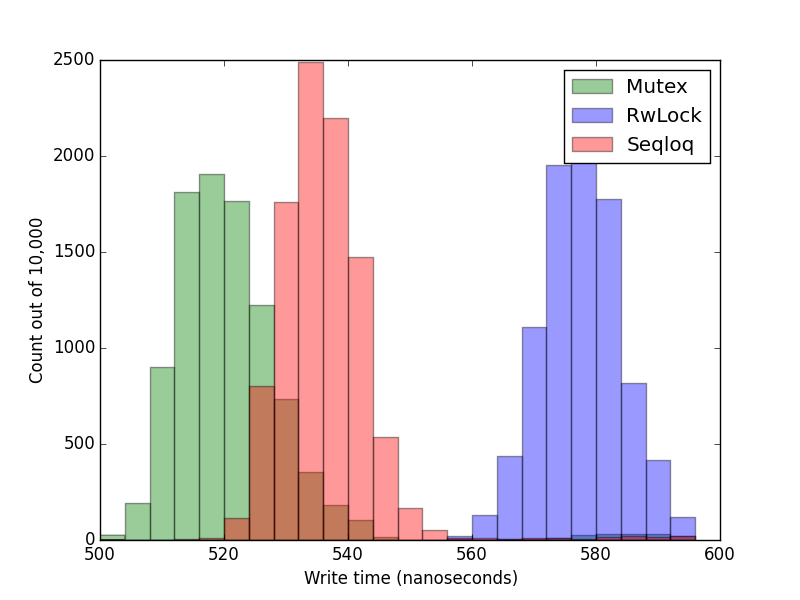
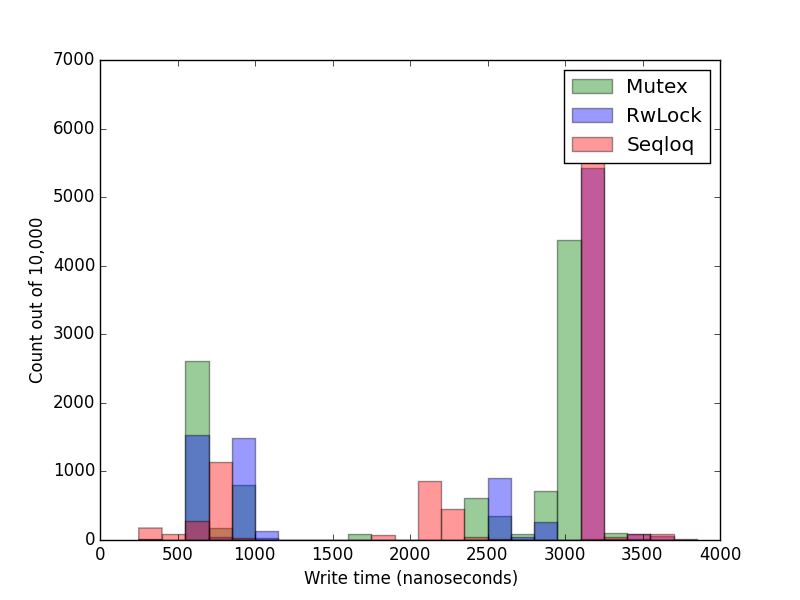
Update graphs

diff --git a/plot.py b/plot.py
@@ -17,4 +17,4 @@ def plot(which, bins):
     plt.savefig('histogram.'+which+'.png')
 
 plot('read', range(150, 200, 2))
-plot('write', range(500, 600, 4))
+plot('write', range(250, 4000, 150))
